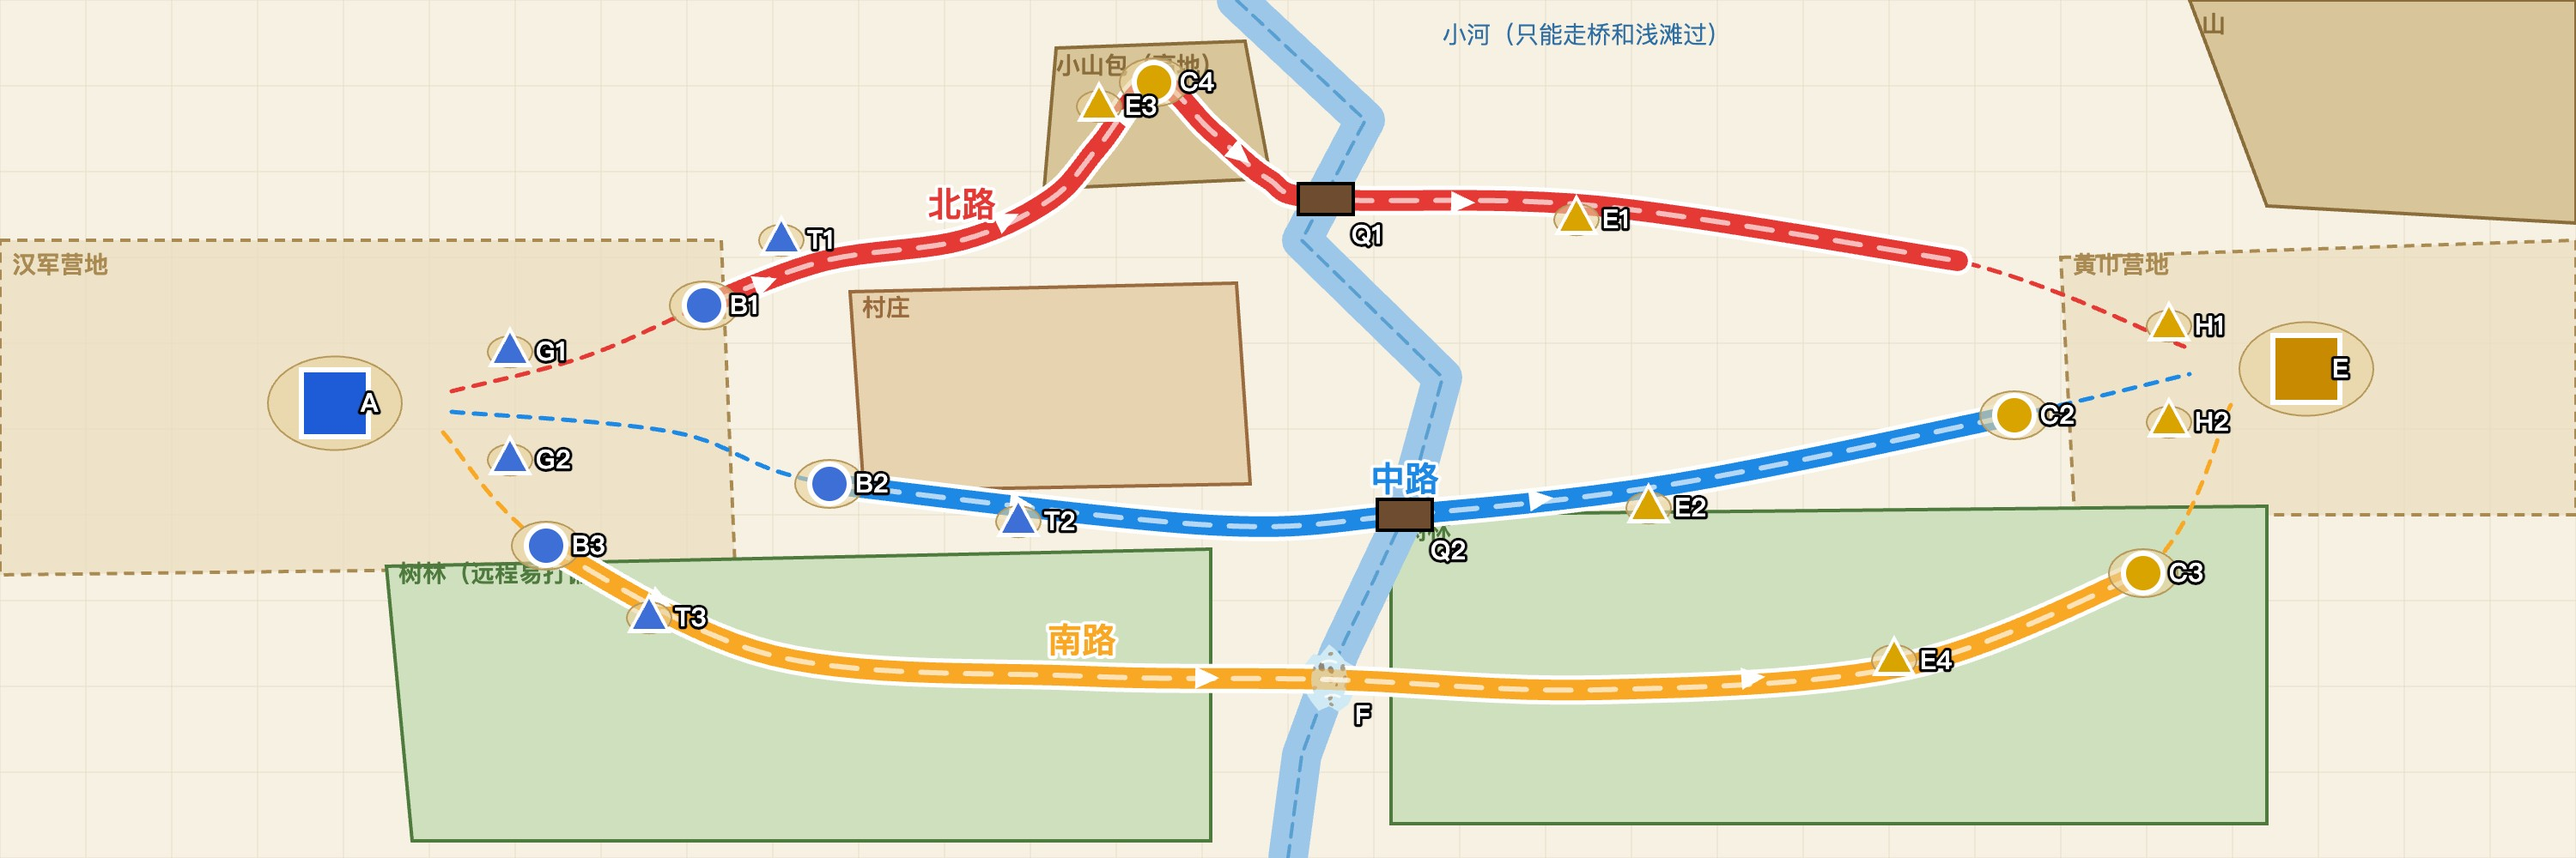
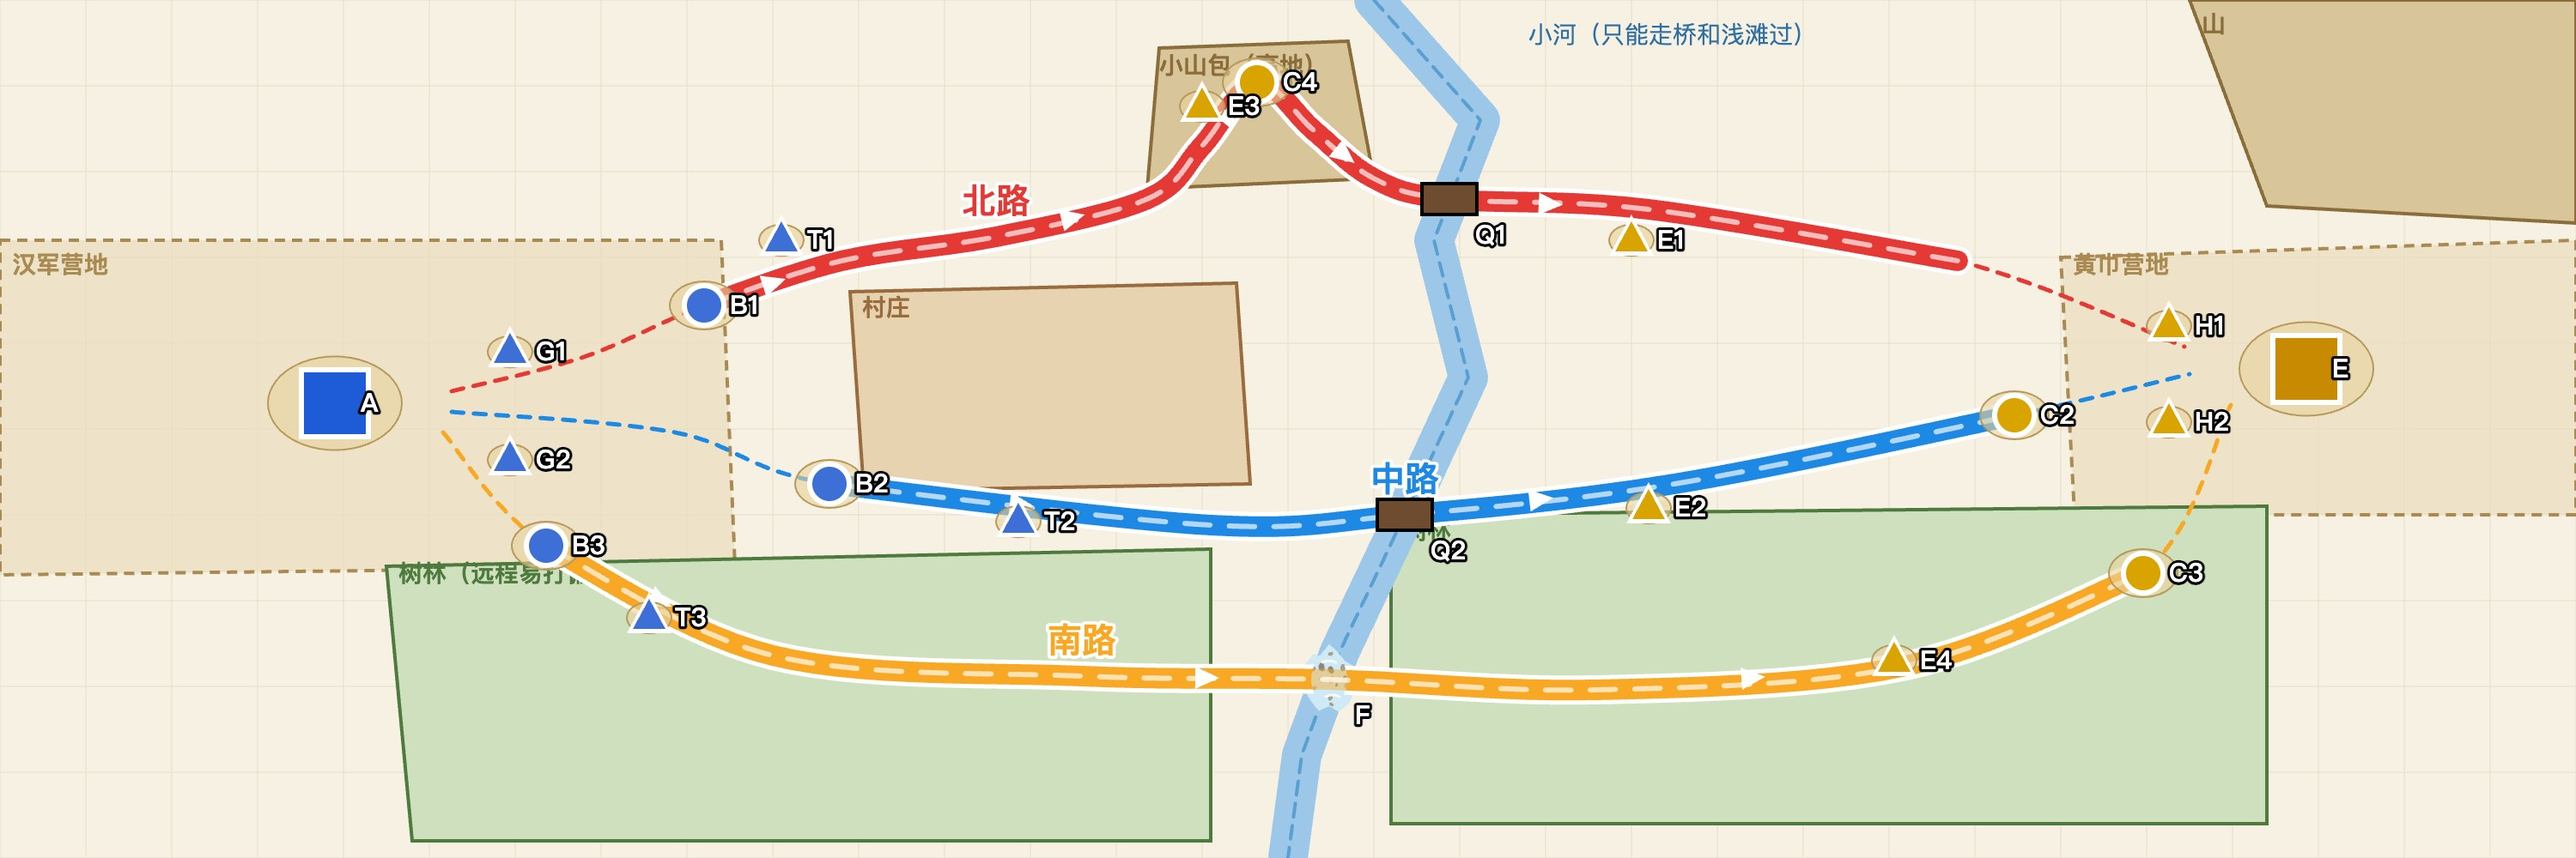
涿郡规划：河流上半段和山包右移，北桥跟着挪到河上

Changed region(s): [[0.279, 0.0, 0.744, 0.558], [0.806, 0.341, 0.837, 0.372], [0.775, 0.31, 0.806, 0.341]]

diff --git a/docs/涿郡路线规划.html b/docs/涿郡路线规划.html
@@ -7,7 +7,7 @@ h2{margin:6px 0 8px}.k{display:inline-block;width:26px;height:26px;border-radius
 // 坐标用 1500×500（和地形图缩略图一致），画到 3000×1000
 const K=2;
 const ROUTES={
- 北路:{c:'#e53935',road:[2,12],p:[[263,228],[340,208],[410,178],[480,152],[560,140],[612,116],[640,85],[672,48],[705,76],[738,104],[772,116],[930,120],[1140,152],[1272,202]],note:'出营先走一段平地，再上坡到山顶黄巾兵营 C4（北路唯一的敌营），下坡过北桥，路通到黄巾大营门前；上坡移速 -25%'},
+ 北路:{c:'#e53935',road:[2,12],p:[[263,228],[340,208],[410,178],[490,152],[580,138],[668,116],[700,85],[732,48],[765,76],[800,104],[844,116],[960,122],[1140,152],[1272,202]],note:'出营先走一段平地，再上坡到山顶黄巾兵营 C4（北路唯一的敌营），下坡过北桥，路通到黄巾大营门前；上坡移速 -25%'},
  中路:{c:'#1e88e5',road:[2,6],p:[[263,240],[393,252],[483,282],[705,306],[818,300],[975,282],[1173,242],[1275,218]],note:'最短；沿村庄南边；中桥窄，会挤'},
  南路:{c:'#f9a825',road:[1,7],p:[[258,252],[318,318],[450,382],[630,394],[774,396],[930,402],[1110,388],[1248,334],[1299,236]],note:'穿两片树林，浅滩涉水；最慢；树林里远程易打偏'},
 };
@@ -17,19 +17,19 @@ const PTS=[
  ['B1','汉军兵营·北',410,178,'camp','北路起点'],
  ['B2','汉军兵营·中',483,282,'camp','中路起点'],
  ['B3','汉军兵营·南',318,318,'camp','南路起点'],
- ['C4','黄巾兵营·山包',672,48,'ecamp','小山包顶的空地（高地），北路唯一的敌营；高地上的弓兵射程更远'],
- ['E3','黄巾箭塔·山包',640,62,'etower','山顶西侧，高地射程 +30%，压制北路上坡的汉军'],
+ ['C4','黄巾兵营·山包',732,48,'ecamp','小山包顶的空地（高地），北路唯一的敌营；高地上的弓兵射程更远'],
+ ['E3','黄巾箭塔·山包',700,62,'etower','山顶西侧，高地射程 +30%，压制北路上坡的汉军'],
  ['G1','汉军门牙塔·上',297,205,'tower','大本营正面，两座门牙塔之一'],
  ['G2','汉军门牙塔·下',297,268,'tower','大本营正面，两座门牙塔之一'],
  ['T1','汉军箭塔·北',455,140,'tower','B1 前方，保护北路兵营'],
  ['T2','汉军箭塔·中',593,304,'tower','B2 前方，保护中路兵营'],
  ['T3','汉军箭塔·南',378,360,'tower','B3 前方，保护南路兵营'],
- ['Q1','北桥（宽）',772,116,'bridge','北路过河；宽，可 3 人并排'],
+ ['Q1','北桥（宽）',844,116,'bridge','北路过河；宽，可 3 人并排'],
  ['Q2','中桥（窄）',818,300,'bridge','中路过河；窄，只能 2 人并排'],
  ['F','浅滩',774,396,'ford','南路涉水；移速 -50%，骑兵 -60%'],
  ['C2','黄巾兵营·中',1173,242,'ecamp','中桥东岸'],
  ['C3','黄巾兵营·南',1248,334,'ecamp','南边树林出口'],
- ['E1','黄巾箭塔·北桥',918,128,'etower','守北桥东头'],
+ ['E1','黄巾箭塔·北桥',950,140,'etower','守北桥东头'],
  ['E2','黄巾箭塔·中桥',960,296,'etower','守中桥东头'],
  ['E4','黄巾箭塔·南',1103,385,'etower','C3 前方，守南路树林出口'],
  ['H1','黄巾门牙塔·上',1263,190,'etower','大本营正面，两座门牙塔之一'],
@@ -55,15 +55,15 @@ function curve(g,p){g.beginPath();g.moveTo(...p[0]);for(let i=0;i<p.length-1;i++
  // 地形线框（只表示范围）
  zone([[0,140],[420,140],[428,330],[0,335]],'#eadcbcaa','#a98a52',[12,8],'汉军营地');
  zone([[1200,150],[1500,140],[1500,300],[1208,300]],'#eadcbcaa','#a98a52',[12,8],'黄巾营地');
- zone([[615,28],[725,24],[740,104],[608,110]],'#d9c59a','#8a6d3b',null,'小山包（高地）');
+ zone([[675,28],[785,24],[800,104],[668,110]],'#d9c59a','#8a6d3b',null,'小山包（高地）');
  zone([[495,170],[720,165],[728,282],[503,286]],'#e8d3b0','#9a6b3e',null,'村庄');
  zone([[225,330],[705,320],[705,490],[240,490]],'#cfe0bf','#4f7a3e',null,'树林（远程易打偏）');
  zone([[810,300],[1320,295],[1320,480],[810,480]],'#cfe0bf','#4f7a3e',null,'树林');
  zone([[1275,0],[1500,0],[1500,130],[1320,120]],'#d9c59a','#8a6d3b',null,'山');
  // 河：一条竖着的弯曲带子
- g.beginPath();[[720,0],[795,70],[758,140],[840,220],[818,300],[780,380],[758,440],[750,500]].forEach(([x,y],i)=>i?g.lineTo(x*K,y*K):g.moveTo(x*K,y*K));
+ g.beginPath();[[800,0],[862,70],[835,140],[855,220],[818,300],[780,380],[758,440],[750,500]].forEach(([x,y],i)=>i?g.lineTo(x*K,y*K):g.moveTo(x*K,y*K));
  g.strokeStyle='#9cc7e8';g.lineWidth=46;g.lineCap='round';g.lineJoin='round';g.stroke();g.strokeStyle='#5a9fd1';g.lineWidth=4;g.setLineDash([16,10]);g.stroke();g.setLineDash([]);
- g.font='28px PingFang SC';g.fillStyle='#2f6fa3';g.fillText('小河（只能走桥和浅滩过）',1680,50);
+ g.font='28px PingFang SC';g.fillStyle='#2f6fa3';g.fillText('小河（只能走桥和浅滩过）',1780,50);
  fordDraw(g,774*K,396*K,false);
  const g2=g;
  for(const[n,r]of Object.entries(ROUTES)){const P=r.p.map(([x,y])=>[x*K,y*K]);

diff --git a/docs/涿郡出图参考.html b/docs/涿郡出图参考.html
@@ -7,7 +7,7 @@ h2{margin:6px 0 8px}.k{display:inline-block;width:26px;height:26px;border-radius
 // 坐标用 1500×500（和地形图缩略图一致），画到 3000×1000
 const K=2;
 const ROUTES={
- 北路:{c:'#e53935',road:[2,12],p:[[263,228],[340,208],[410,178],[480,152],[560,140],[612,116],[640,85],[672,48],[705,76],[738,104],[772,116],[930,120],[1140,152],[1272,202]],note:'出营先走一段平地，再上坡到山顶黄巾兵营 C4（北路唯一的敌营），下坡过北桥，路通到黄巾大营门前；上坡移速 -25%'},
+ 北路:{c:'#e53935',road:[2,12],p:[[263,228],[340,208],[410,178],[490,152],[580,138],[668,116],[700,85],[732,48],[765,76],[800,104],[844,116],[960,122],[1140,152],[1272,202]],note:'出营先走一段平地，再上坡到山顶黄巾兵营 C4（北路唯一的敌营），下坡过北桥，路通到黄巾大营门前；上坡移速 -25%'},
  中路:{c:'#1e88e5',road:[2,6],p:[[263,240],[393,252],[483,282],[705,306],[818,300],[975,282],[1173,242],[1275,218]],note:'最短；沿村庄南边；中桥窄，会挤'},
  南路:{c:'#f9a825',road:[1,7],p:[[258,252],[318,318],[450,382],[630,394],[774,396],[930,402],[1110,388],[1248,334],[1299,236]],note:'穿两片树林，浅滩涉水；最慢；树林里远程易打偏'},
 };
@@ -17,19 +17,19 @@ const PTS=[
  ['B1','汉军兵营·北',410,178,'camp','北路起点'],
  ['B2','汉军兵营·中',483,282,'camp','中路起点'],
  ['B3','汉军兵营·南',318,318,'camp','南路起点'],
- ['C4','黄巾兵营·山包',672,48,'ecamp','小山包顶的空地（高地），北路唯一的敌营；高地上的弓兵射程更远'],
- ['E3','黄巾箭塔·山包',640,62,'etower','山顶西侧，高地射程 +30%，压制北路上坡的汉军'],
+ ['C4','黄巾兵营·山包',732,48,'ecamp','小山包顶的空地（高地），北路唯一的敌营；高地上的弓兵射程更远'],
+ ['E3','黄巾箭塔·山包',700,62,'etower','山顶西侧，高地射程 +30%，压制北路上坡的汉军'],
  ['G1','汉军门牙塔·上',297,205,'tower','大本营正面，两座门牙塔之一'],
  ['G2','汉军门牙塔·下',297,268,'tower','大本营正面，两座门牙塔之一'],
  ['T1','汉军箭塔·北',455,140,'tower','B1 前方，保护北路兵营'],
  ['T2','汉军箭塔·中',593,304,'tower','B2 前方，保护中路兵营'],
  ['T3','汉军箭塔·南',378,360,'tower','B3 前方，保护南路兵营'],
- ['Q1','北桥（宽）',772,116,'bridge','北路过河；宽，可 3 人并排'],
+ ['Q1','北桥（宽）',844,116,'bridge','北路过河；宽，可 3 人并排'],
  ['Q2','中桥（窄）',818,300,'bridge','中路过河；窄，只能 2 人并排'],
  ['F','浅滩',774,396,'ford','南路涉水；移速 -50%，骑兵 -60%'],
  ['C2','黄巾兵营·中',1173,242,'ecamp','中桥东岸'],
  ['C3','黄巾兵营·南',1248,334,'ecamp','南边树林出口'],
- ['E1','黄巾箭塔·北桥',918,128,'etower','守北桥东头'],
+ ['E1','黄巾箭塔·北桥',950,140,'etower','守北桥东头'],
  ['E2','黄巾箭塔·中桥',960,296,'etower','守中桥东头'],
  ['E4','黄巾箭塔·南',1103,385,'etower','C3 前方，守南路树林出口'],
  ['H1','黄巾门牙塔·上',1263,190,'etower','大本营正面，两座门牙塔之一'],
@@ -55,13 +55,13 @@ function curve(g,p){g.beginPath();g.moveTo(...p[0]);for(let i=0;i<p.length-1;i++
  // 地形线框（只表示范围）
  zone([[0,140],[420,140],[428,330],[0,335]],'#9cc27a','#9cc27a',[12,8],'汉军营地');
  zone([[1200,150],[1500,140],[1500,300],[1208,300]],'#9cc27a','#9cc27a',[12,8],'黄巾营地');
- zone([[615,28],[725,24],[740,104],[608,110]],'#d9c59a','#8a6d3b',null,'小山包（高地）');
+ zone([[675,28],[785,24],[800,104],[668,110]],'#d9c59a','#8a6d3b',null,'小山包（高地）');
  zone([[495,170],[720,165],[728,282],[503,286]],'#e8d3b0','#9a6b3e',null,'村庄');
  zone([[225,330],[705,320],[705,490],[240,490]],'#4e8a45','#4e8a45',null,'树林（远程易打偏）');
  zone([[810,300],[1320,295],[1320,480],[810,480]],'#4e8a45','#4e8a45',null,'树林');
  zone([[1275,0],[1500,0],[1500,130],[1320,120]],'#d9c59a','#8a6d3b',null,'山');
  // 河：一条竖着的弯曲带子
- g.beginPath();[[720,0],[795,70],[758,140],[840,220],[818,300],[780,380],[758,440],[750,500]].forEach(([x,y],i)=>i?g.lineTo(x*K,y*K):g.moveTo(x*K,y*K));
+ g.beginPath();[[800,0],[862,70],[835,140],[855,220],[818,300],[780,380],[758,440],[750,500]].forEach(([x,y],i)=>i?g.lineTo(x*K,y*K):g.moveTo(x*K,y*K));
  g.strokeStyle='#9cc7e8';g.lineWidth=46;g.lineCap='round';g.lineJoin='round';g.stroke();
  g.font='28px PingFang SC';g.fillStyle='#2f6fa3';
  fordDraw(g,774*K,396*K,true);
